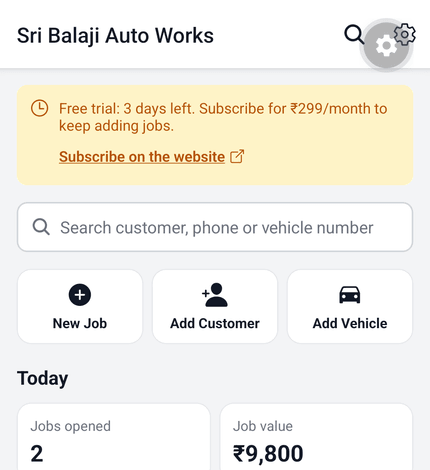
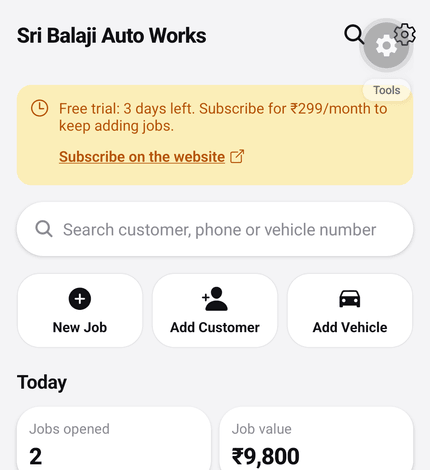
Replace the app screenshots with the current design
The three shipped screenshots still showed the old yellow logo and the
pre-orange interface, so the site was advertising an app that no longer looks
like that. Captured fresh from the running app, and the panels now show three
different screens instead of the dashboard three times — the parts-and-labour
panel shows a real job card with the work attributed to a mechanic.

Drops login.png: an empty sign-in form was the weakest of the four.

diff --git a/app/page.js b/app/page.js
@@ -5,7 +5,7 @@ import { formatInr } from '@/lib/format';
 
 /** The app screens fanned out under the headline, each with its own label. */
 const FAN = [
-  { src: '/app/login.png', alt: 'Signing in to SpannerBook', label: 'Your garage 🔧', tint: 'var(--tint-peach)', tilt: -9, lift: 26 },
+  { src: '/app/jobs.png', alt: "Today's jobs and what each one owes", label: 'Job cards 📋', tint: 'var(--tint-peach)', tilt: -9, lift: 26 },
   { src: '/app/dashboard.png', alt: 'The SpannerBook dashboard', label: 'Today 📊', tint: 'var(--tint-lilac)', tilt: -3, lift: 8 },
   { src: '/app/subscription.png', alt: 'The subscription screen', label: 'Billing 🧾', tint: 'var(--tint-mint)', tilt: 4, lift: 14 },
 ];
@@ -18,7 +18,7 @@ const PANELS = [
     title: 'Open a job card the moment the vehicle rolls in.',
     body: 'Number plate, customer, complaint — done. Track it from received to delivered so nothing sits forgotten in the corner of the workshop.',
     shot: '/app/dashboard.png',
-    alt: 'Open jobs and money due on the dashboard',
+    alt: 'Open jobs, money collected and money due, on the dashboard',
   },
   {
     tint: 'var(--tint-mint)',
@@ -26,8 +26,8 @@ const PANELS = [
     pillColour: 'var(--accent)',
     title: 'Parts and work chosen by tapping, not spelling.',
     body: 'Bore work, timing chain, self motor, oil seal, clutch plate, brake shoe — hundreds of them, suggested for the vehicle in front of you. Record which mechanic did what, and keep labour as one charge on the bill.',
-    shot: '/app/dashboard.png',
-    alt: 'Adding parts and work to a job',
+    shot: '/app/jobdetail.png',
+    alt: 'A job card showing the work done, who did it, and the parts used',
   },
   {
     tint: 'var(--tint-peach)',
@@ -35,8 +35,8 @@ const PANELS = [
     pillColour: 'var(--accent)',
     title: 'Bills, part payments and the balance still owed.',
     body: 'Parts plus labour plus other charges, totalled by the server rather than guessed on the phone. Take part payments, and the balance is there every time the customer walks back in.',
-    shot: '/app/subscription.png',
-    alt: 'A bill with the balance due',
+    shot: '/app/jobs.png',
+    alt: 'Each job showing its total, what is paid and the balance still due',
   },
 ];
 
